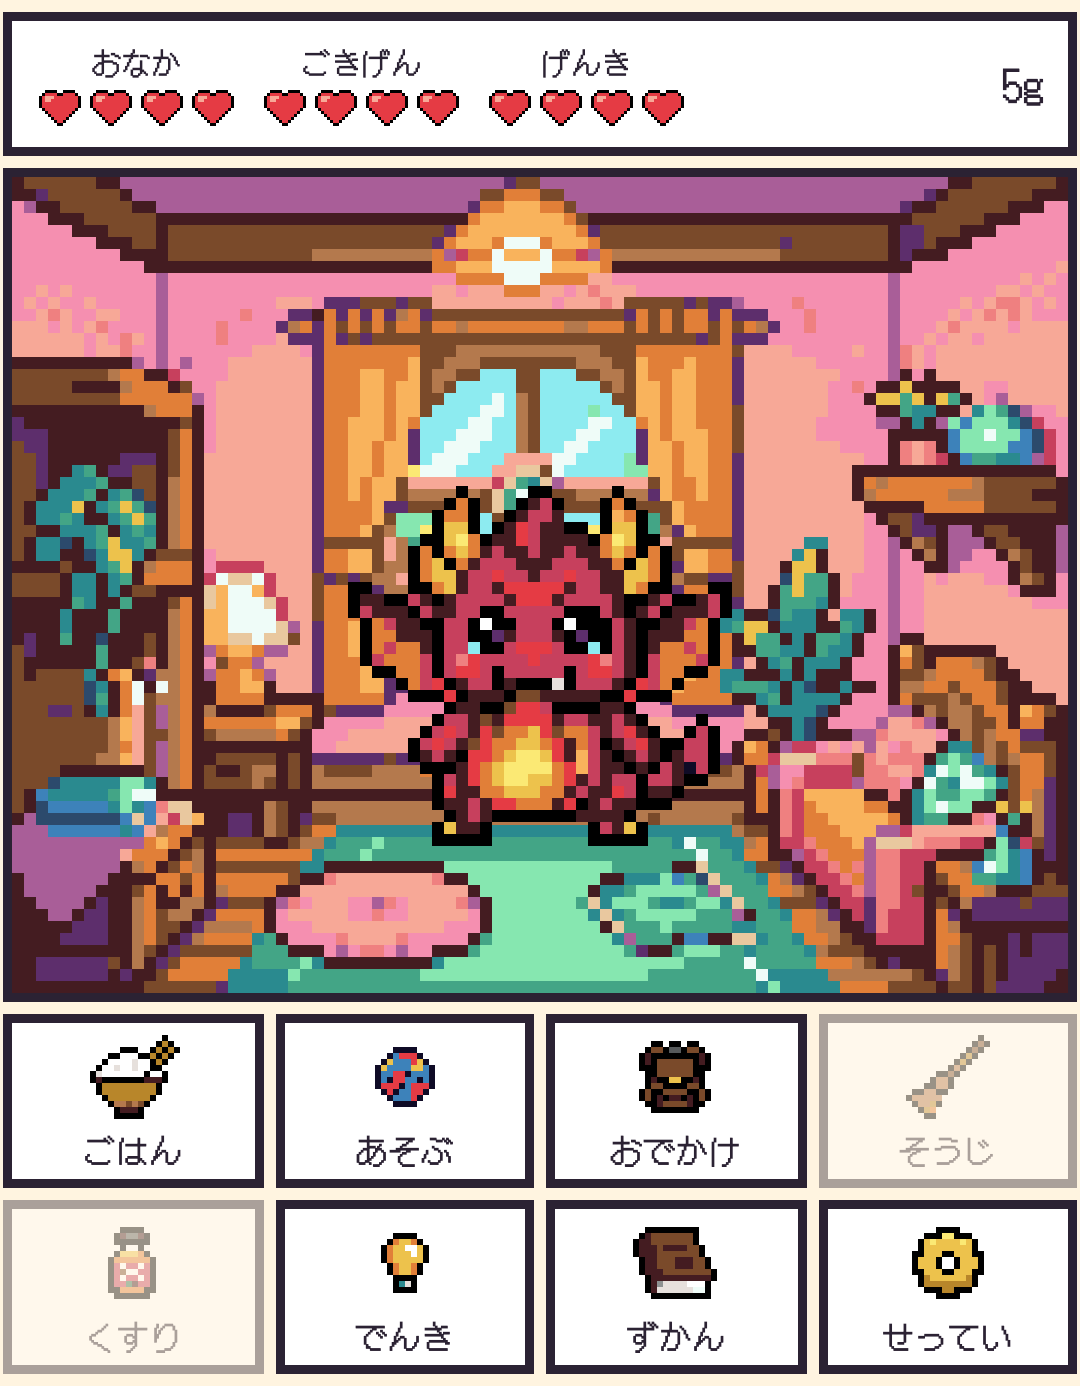
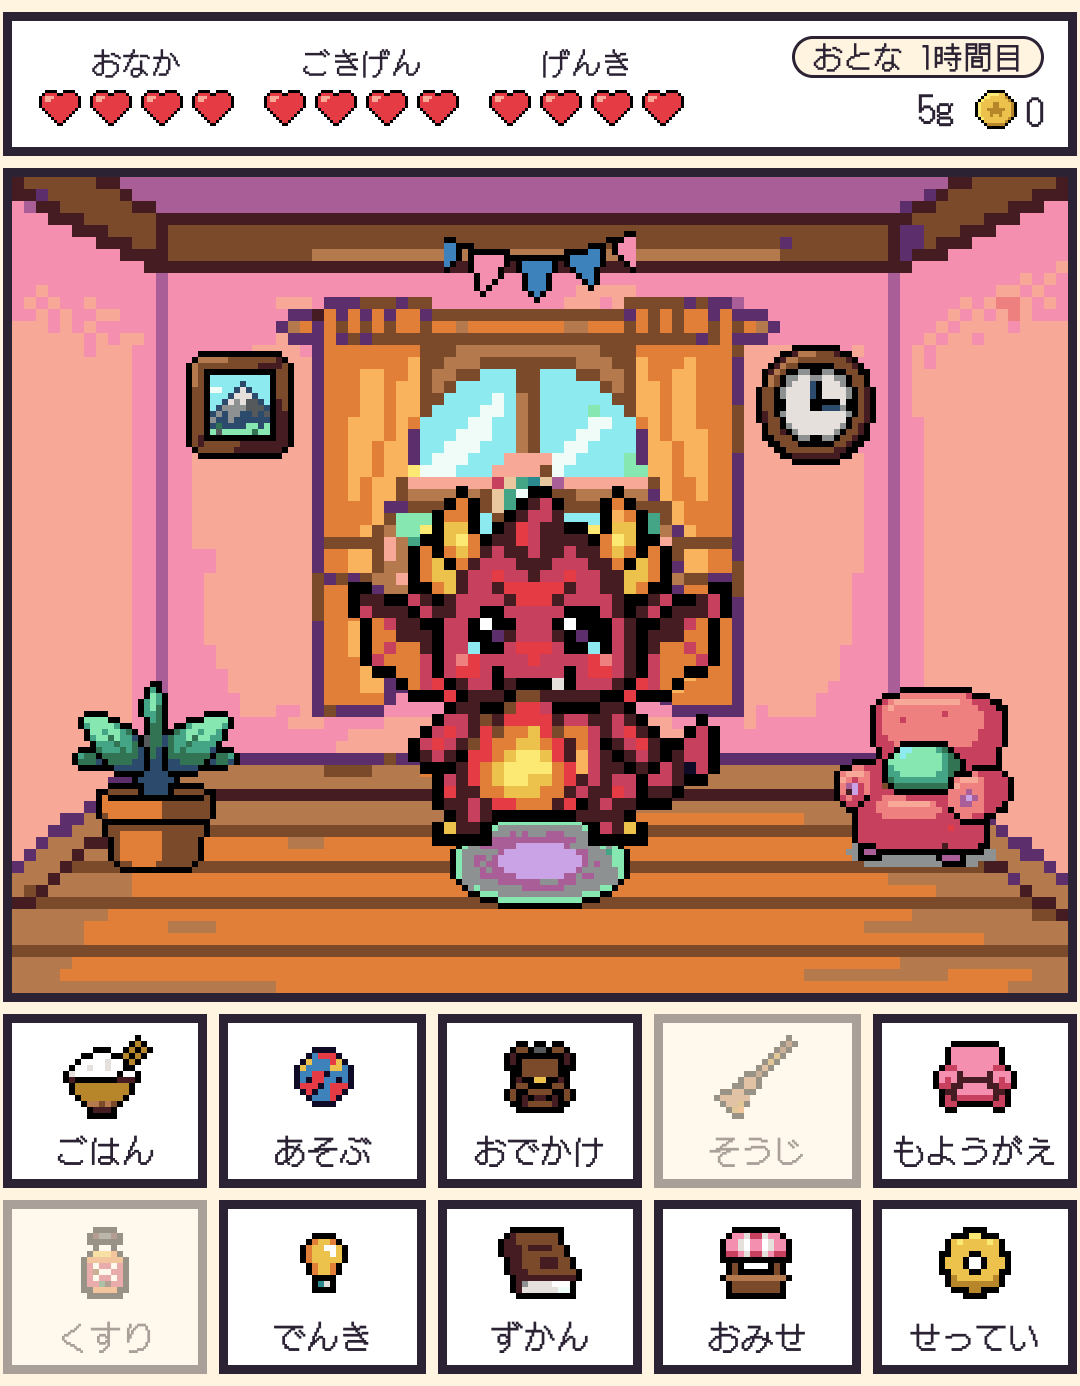
feat: Chrometchi 1.1.0 の新機能と更新のおしらせ

diff --git a/chrometchi/index.html b/chrometchi/index.html
@@ -262,6 +262,25 @@
     }
     .try button[hidden] { display: none; }
 
+    /* ---------- Rooms and dress-up ---------- */
+    .rooms { --u: 1; padding: 14px; }
+    @media (min-width: 680px) and (max-width: 880px) { .rooms { --u: 2; } }
+    @media (min-width: 1100px) { .rooms { --u: 2; } }
+    .room-tiles { display: grid; grid-template-columns: repeat(3, max-content); justify-content: center; gap: 6px; }
+    .room-tile { position: relative; width: calc(88px * var(--u)); height: calc(68px * var(--u)); border: 3px solid var(--ink); border-radius: 8px; overflow: hidden; background: var(--cream); box-sizing: content-box; }
+    .room-tile img { position: absolute; }
+    .room-tile .bgimg { left: 0; top: 0; width: calc(88px * var(--u)); height: calc(68px * var(--u)); }
+    .room-tile .item { left: 6%; bottom: 4%; width: calc(var(--n) * 1px * var(--u)); height: calc(var(--n) * 1px * var(--u)); }
+    .room-tile .item.r { left: auto; right: 6%; }
+    .room-tile figcaption { position: absolute; left: 0; right: 0; top: 0; text-align: center; font: 12px/1.6 var(--font-dot); background: rgba(255, 244, 224, .88); border-bottom: 2px solid var(--ink); }
+    .shelf { display: flex; align-items: center; flex-wrap: wrap; justify-content: center; gap: 6px 12px; margin: 12px 0 0; padding-top: 12px; border-top: 3px dashed #e3d6dc; font: 14px var(--font-dot); }
+    .shelf .label { color: var(--sub); flex: none; }
+    .shelf ul { display: flex; align-items: flex-end; gap: 6px; }
+    .shelf img { width: calc(var(--n) * 1px * var(--k, 1)); height: calc(var(--n) * 1px * var(--k, 1)); }
+    .shelf .acc { --k: 3; }
+    .shelf .dec { --k: 2; }
+    @media (max-width: 420px) { .chips.rooms-chips li { font-size: 15px; gap: 12px; } }
+
     .night-card { background: #2a3170; border: 4px solid var(--cream); border-radius: 16px; box-shadow: 6px 6px 0 #0f1236; padding: 28px; display: flex; align-items: center; justify-content: center; gap: 8px; min-height: 220px; }
     .night-card .sleeper { width: 128px; height: 128px; }
     .night-card .zzz { width: 48px; height: 48px; align-self: flex-start; }
@@ -324,6 +343,7 @@
       <div class="nav-links">
         <a href="#care"><span lang="ja">育てる</span><span lang="en">Raise</span></a>
         <a href="#play"><span lang="ja">遊ぶ</span><span lang="en">Play</span></a>
+        <a href="#rooms"><span lang="ja">おへや</span><span lang="en">Rooms</span></a>
         <a href="#zukan"><span lang="ja">ずかん</span><span lang="en">Zukan</span></a>
         <a href="#walk"><span lang="ja">おさんぽ</span><span lang="en">Walks</span></a>
         <a href="#privacy"><span lang="ja">プライバシー</span><span lang="en">Privacy</span></a>
@@ -368,8 +388,8 @@
             <div class="page"><i style="width:70%"></i><i style="width:92%"></i><i style="width:58%"></i><i style="width:84%"></i><i class="block"></i><i style="width:66%"></i><i style="width:48%"></i></div>
           </div>
           <div class="popup">
-            <img lang="ja" src="/chrometchi/popup-ja.webp" width="1080" height="1386" alt="Chrometchi のポップアップ。部屋の中でドラゴンのペットが笑っていて、上におなか・ごきげん・げんきのハート、下にごはん・あそぶ・おでかけなどのボタンがあります。" />
-            <img lang="en" src="/chrometchi/popup-en.webp" width="1080" height="1386" alt="The Chrometchi popup: a dragon pet smiling in its room, with Hunger, Mood and Vitality hearts above and buttons such as Feed, Play and Go out below." />
+            <img lang="ja" src="/chrometchi/popup-ja.webp" width="1080" height="1386" alt="Chrometchi のポップアップ。家具のある部屋にドラゴンのペットがいて、上におなか・ごきげん・げんきのハートと「おとな 1時間目」の表示、下にごはん・あそぶ・おでかけ・もようがえなどのボタンがあります。" />
+            <img lang="en" src="/chrometchi/popup-en.webp" width="1080" height="1386" alt="The Chrometchi popup: a dragon pet in a furnished room, with Hunger, Mood and Vitality hearts and an "Adult, hour 1" label above and buttons such as Feed, Play, Go out and Decorate below." />
           </div>
           <img class="px deco" src="/chrometchi/art/ui/effects/star.png" alt="" width="48" height="48" style="left:-22px;top:-20px" />
           <img class="px deco" src="/chrometchi/art/ui/effects/note.png" alt="" width="48" height="48" style="left:22%;bottom:-26px" />
@@ -381,8 +401,8 @@
       <div class="wrap split">
         <div>
           <h2 id="care-title"><span lang="ja">お世話するほど、<br />すくすく育つ</span><span lang="en">A little care<br />goes a long way</span></h2>
-          <p class="body" lang="ja">ごはんとおやつ、うんちのおそうじ、びょうきのときのくすり、夜の消灯。すきま時間のお世話で、ペットは元気に育ちます。なでると、うれしそうに笑います。</p>
-          <p class="body" lang="en">Meals and treats, cleaning up, medicine when it is sick and lights out at bedtime. A moment of care between tabs keeps your pet healthy, and a pat makes it light up.</p>
+          <p class="body" lang="ja">ごはんとおやつ、うんちのおそうじ、びょうきのときのくすり、夜の消灯。すきま時間のお世話で、ペットは元気に育ちます。なでると、うれしそうに笑います。上のバーには、いまの育ちの段階と「何時間目」かも出ます。</p>
+          <p class="body" lang="en">Meals and treats, cleaning up, medicine when it is sick and lights out at bedtime. A moment of care between tabs keeps your pet healthy, and a pat makes it light up. The top bar shows its stage and which hour of it you are in.</p>
         </div>
         <div class="stack">
           <ol class="card plain growth" aria-label="育ち方" data-label-ja="育ち方" data-label-en="Life stages">
@@ -445,12 +465,57 @@
       </div>
     </section>
 
+    <section class="band t-pink" id="rooms" aria-labelledby="rooms-title">
+      <div class="wrap split">
+        <div>
+          <h2 id="rooms-title"><span lang="ja">おへやを、<br />じぶんらしく</span><span lang="en">Make it<br />feel like home</span></h2>
+          <p class="body" lang="ja">いろいろなへやに もようがえ。家具をかざって、アクセサリーで おしゃれも。新しいおへやは、遊びながら増えていきます。</p>
+          <p class="body" lang="en">Switch rooms, place furniture and dress your pet up. New rooms unlock as you play.</p>
+          <p class="body" lang="ja">コインは、ミッションや ずかんの達成、おわかれのときにたまります。育ったおへやとかぐによって、進化する姿が変わることもあります。</p>
+          <p class="body" lang="en">Coins come from missions, Zukan milestones and farewells. The room and its furniture can change what your pet grows into.</p>
+        </div>
+        <div class="stack">
+          <div class="card rooms">
+            <ul class="plain room-tiles" aria-hidden="true">
+              <li class="room-tile"><img class="px bgimg" src="/chrometchi/art/ui/bg/beach_day.png" alt="" width="88" height="68" /><img class="px item" style="--n:24" src="/chrometchi/art/ui/decor/ball.png" alt="" width="24" height="24" /></li>
+              <li class="room-tile"><img class="px bgimg" src="/chrometchi/art/ui/bg/space_day.png" alt="" width="88" height="68" /><img class="px item r" style="--n:32" src="/chrometchi/art/ui/decor/telescope.png" alt="" width="32" height="32" /></li>
+              <li class="room-tile"><img class="px bgimg" src="/chrometchi/art/ui/bg/sweets_day.png" alt="" width="88" height="68" /><img class="px item" style="--n:32" src="/chrometchi/art/ui/decor/toypiano.png" alt="" width="32" height="32" /></li>
+            </ul>
+            <div class="shelf" aria-hidden="true">
+              <span class="label"><span lang="ja">かぐ</span><span lang="en">Furniture</span></span>
+              <ul class="plain dec">
+                <li><img class="px" style="--n:32" src="/chrometchi/art/ui/decor/lamp.png" alt="" width="32" height="32" /></li>
+                <li><img class="px" style="--n:32" src="/chrometchi/art/ui/decor/plant.png" alt="" width="32" height="32" /></li>
+                <li><img class="px" style="--n:32" src="/chrometchi/art/ui/decor/fishbowl.png" alt="" width="32" height="32" /></li>
+                <li><img class="px" style="--n:32" src="/chrometchi/art/ui/decor/armchair.png" alt="" width="32" height="32" /></li>
+              </ul>
+            </div>
+            <div class="shelf" aria-hidden="true" style="border-top:0;margin-top:0;padding-top:0">
+              <span class="label"><span lang="ja">アクセサリー</span><span lang="en">Accessories</span></span>
+              <ul class="plain acc">
+                <li><img class="px" style="--n:16" src="/chrometchi/art/ui/acc/crown.png" alt="" width="16" height="16" /></li>
+                <li><img class="px" style="--n:20" src="/chrometchi/art/ui/acc/wizardhat.png" alt="" width="20" height="20" /></li>
+                <li><img class="px" style="--n:16" src="/chrometchi/art/ui/acc/bowtie.png" alt="" width="16" height="16" /></li>
+                <li><img class="px" style="--n:20" src="/chrometchi/art/ui/acc/strawhat.png" alt="" width="20" height="20" /></li>
+                <li><img class="px" style="--n:16" src="/chrometchi/art/ui/acc/ribbon.png" alt="" width="16" height="16" /></li>
+              </ul>
+            </div>
+          </div>
+          <ul class="card plain chips rooms-chips">
+            <li><img class="px" src="/chrometchi/art/ui/icons/decorate.png" alt="" width="48" height="48" /><span lang="ja">へやを えらんで もようがえ</span><span lang="en">Pick a room and redecorate</span></li>
+            <li><img class="px" src="/chrometchi/art/ui/icons/shop.png" alt="" width="48" height="48" /><span lang="ja">コインで 家具とアクセサリー</span><span lang="en">Buy furniture and accessories with coins</span></li>
+            <li><img class="px" src="/chrometchi/art/ui/icons/coin.png" alt="" width="48" height="48" /><span lang="ja">ミッションと ずかんで コインがたまる</span><span lang="en">Earn coins from missions and the Zukan</span></li>
+          </ul>
+        </div>
+      </div>
+    </section>
+
     <section class="band t-lavender" id="zukan" aria-labelledby="zukan-title">
       <div class="wrap split flip">
         <div>
           <h2 id="zukan-title"><span lang="ja">育て方で、<br />進化が変わる</span><span lang="en">Raise it your way,<br />see what it becomes</span></h2>
-          <p class="body" lang="ja">何を食べ、何で遊び、どれだけ大事にされたか。お世話のしかたで、おとなの姿が決まります。めったに会えない、ひみつの姿も。出会った姿は、これまで育てたペットの思い出といっしょに、ずかんにずっと残ります。</p>
-          <p class="body" lang="en">What it eats, how you play and how well you look after it decide its adult form. Some forms are rare and secret. Every form you meet stays in your Zukan, along with memories of the pets you raised before.</p>
+          <p class="body" lang="ja">何を食べ、何で遊び、どれだけ大事にされたか。お世話のしかたで、おとなの姿が決まります。めったに会えない、ひみつの姿も。出会った姿は、これまで育てたペットの思い出といっしょに、ずかんにずっと残ります。ふ化・進化・おわかれにはみじかいシーンが流れ、「おもいで」にはさいごの姿・進化の道すじ・おわかれの理由・いっしょにいた時間が残ります。</p>
+          <p class="body" lang="en">What it eats, how you play and how well you look after it decide its adult form. Some forms are rare and secret. Every form you meet stays in your Zukan, along with memories of the pets you raised before. Hatching, evolving and saying goodbye each play a short scene, and the Memories section keeps each pet's last form, evolution path, time together and why the farewell happened.</p>
         </div>
         <div class="card zukan">
           <div class="zukan-head"><span lang="ja">ずかん</span><span lang="en">Zukan</span></div>
@@ -553,6 +618,7 @@
       <a class="brand" href="/chrometchi/"><img class="px" src="/chrometchi/icon.png" alt="" width="32" height="32" /><span>Chrometchi</span></a>
       <div class="foot-links">
         <a href="/chrometchi/privacy.html"><span lang="ja">プライバシーポリシー</span><span lang="en">Privacy Policy</span></a>
+        <a href="/chrometchi/updates.html"><span lang="ja">更新のおしらせ</span><span lang="en">What's new</span></a>
         <a href="/chrometchi/support.html"><span lang="ja">サポート</span><span lang="en">Support</span></a>
         <a href="/"><span lang="ja">ほかのアプリ</span><span lang="en">More apps</span></a>
       </div>

diff --git a/chrometchi/updates.html b/chrometchi/updates.html
@@ -1,0 +1,65 @@
+<!DOCTYPE html>
+<html lang="ja">
+<head>
+  <meta charset="UTF-8" />
+  <meta name="viewport" content="width=device-width, initial-scale=1" />
+  <title>更新のおしらせ | Chrometchi</title>
+  <meta name="description" content="Chrometchi の更新のおしらせ。What's new in Chrometchi." />
+  <link rel="icon" type="image/png" href="/chrometchi/icon.png" />
+  <link rel="stylesheet" href="/assets/style.css" />
+</head>
+<body>
+  <div class="wrap">
+    <header class="site"><a href="/">mkontani</a> · <a href="/chrometchi/">Chrometchi</a></header>
+    <h1>更新のおしらせ / What's new</h1>
+    <p class="muted">Chrometchi の変更点を、新しい順にまとめています。The changes in each version of Chrometchi, newest first.</p>
+    <p><a href="#ja">日本語</a> · <a href="#en">English</a></p>
+
+    <section id="ja">
+      <h2>日本語</h2>
+      <h3>1.1.0(2026年11月)</h3>
+      <ul>
+        <li>へやが ふえて、もようがえ できるように</li>
+        <li>ミッションや ずかんで コインがたまり、食材を お店で売れるように</li>
+        <li>お店で家具を買って、へやに かざれるように</li>
+        <li>アクセサリーで きせかえ</li>
+        <li>新しい姿が41体ふえて、全部で83体に。へや・かざり・お世話のしかたで出会える姿が変わります</li>
+        <li>おでかけのミニゲームで、うまくいったかが ひと目で分かるように</li>
+        <li>はたけで、苗に1つずつ水をあげて育て、収穫できるように。水をわすれると かれます</li>
+        <li>ふ化・進化・たびだち・お別れに、演出が入るように</li>
+        <li>上のバーに、いまの時期と何時間目かを表示</li>
+        <li>ずかんの「おもいで」が、さいごの姿・進化の道すじ・原因・いっしょにいた時間のカードに</li>
+        <li>料理のレシピが30品に</li>
+      </ul>
+      <h3>1.0.1 / 1.0.0(2026年11月)</h3>
+      <ul>
+        <li>Chrome ウェブストアで公開しました</li>
+      </ul>
+    </section>
+
+    <section id="en" lang="en">
+      <h2>English</h2>
+      <h3>1.1.0 (November 2026)</h3>
+      <ul>
+        <li>More rooms to switch between</li>
+        <li>Coins from missions and the Zukan; sell ingredients in the shop</li>
+        <li>Buy furniture and place it in your room</li>
+        <li>Dress your pet up with accessories</li>
+        <li>41 new forms, 83 in all, shaped by rooms, furniture and care</li>
+        <li>The outing games show clearly how you did</li>
+        <li>The farm: water each plant, wait, then harvest; forgotten plants wither</li>
+        <li>Scenes for hatching, evolving, setting off and farewells</li>
+        <li>The top bar shows the pet's stage and hour</li>
+        <li>Past pets become album cards with their path, cause and time together</li>
+        <li>30 recipes to discover</li>
+      </ul>
+      <h3>1.0.1 / 1.0.0 (November 2026)</h3>
+      <ul>
+        <li>First release on the Chrome Web Store</li>
+      </ul>
+    </section>
+
+    <footer>© 2026 mkontani · <a href="/chrometchi/updates.html">更新のおしらせ / What's new</a> · <a href="/">All apps</a></footer>
+  </div>
+</body>
+</html>

diff --git a/chrometchi/support.html b/chrometchi/support.html
@@ -37,7 +37,8 @@
 
       <h3>お問い合わせ</h3>
       <p>不具合の報告やご要望は、<a href="mailto:itoama@gmail.com">itoama@gmail.com</a> までお寄せください。最新のバージョンは <a href="https://chromewebstore.google.com/detail/chrometchi/jdblpfjgdackcbckjjkgcmlkcmdplfki" target="_blank" rel="noopener">Chrome ウェブストアのページ</a>でご確認いただけます。</p>
-    </section>
+          <p>新しい機能や変更点は、<a href="/chrometchi/updates.html#ja">更新のおしらせ</a>にまとめています。</p>
+</section>
 
     <section id="en" lang="en">
       <h2>English</h2>
@@ -62,9 +63,10 @@
 
       <h3>Get help</h3>
       <p>For bug reports and feature requests, email <a href="mailto:itoama@gmail.com">itoama@gmail.com</a>. The latest version is shown on the <a href="https://chromewebstore.google.com/detail/chrometchi/jdblpfjgdackcbckjjkgcmlkcmdplfki" target="_blank" rel="noopener">Chrome Web Store page</a>.</p>
+      <p>New features and changes are listed in <a href="/chrometchi/updates.html#en">What's new</a>.</p>
     </section>
 
-    <footer>© 2026 mkontani · <a href="/">All apps</a></footer>
+    <footer>© 2026 mkontani · <a href="/chrometchi/updates.html">更新のおしらせ / What's new</a> · <a href="/">All apps</a></footer>
   </div>
 </body>
 </html>

diff --git a/chrometchi/privacy.html b/chrometchi/privacy.html
@@ -92,7 +92,7 @@
       <p>Email <a href="mailto:itoama@gmail.com">itoama@gmail.com</a>.</p>
     </section>
 
-    <footer>© 2026 mkontani · <a href="/">All apps</a></footer>
+    <footer>© 2026 mkontani · <a href="/chrometchi/updates.html">更新のおしらせ / What's new</a> · <a href="/">All apps</a></footer>
   </div>
 </body>
 </html>
